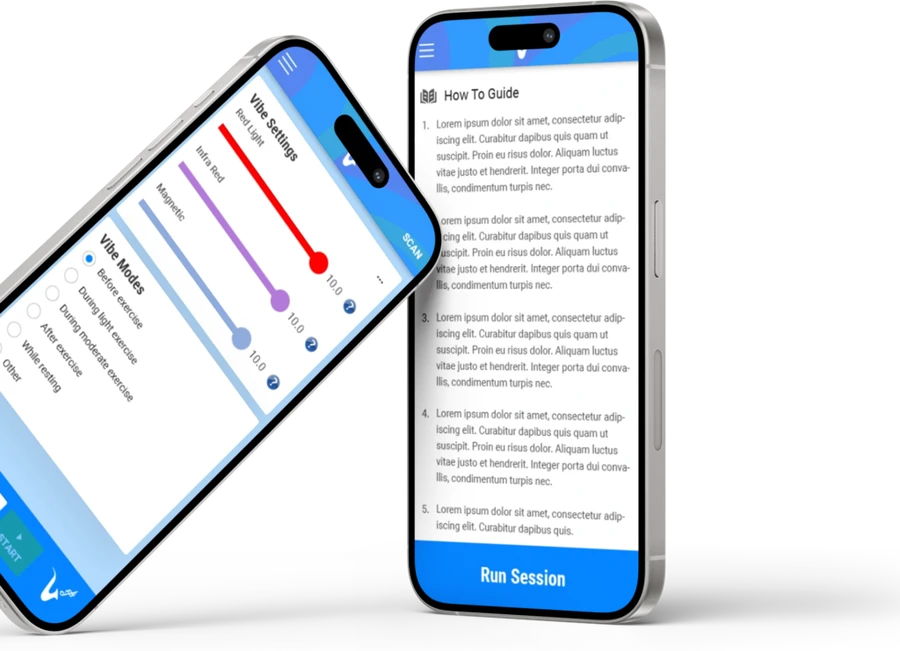
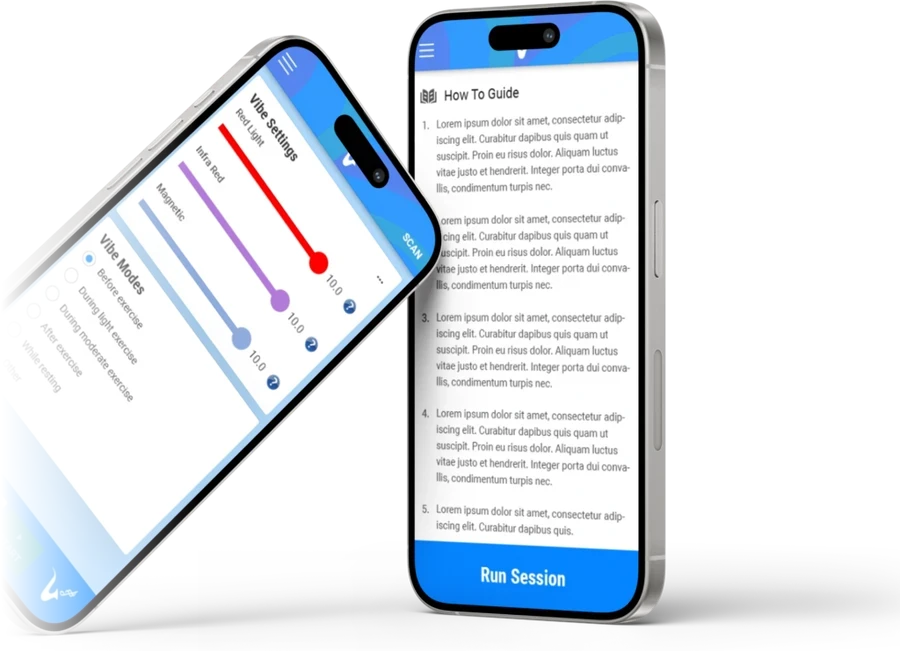
fix: no hard-cropped product renders; remove duplicate and unwanted nav links
Renders: every edge where a product render's subject ran off the image (the Ship It Pro and Fireflies hands, pedestals, screens) now fades to transparent, so nothing ends in a hard crop line on any background. Grief Unleashed, a cropped scene, is replaced by a clean visual composed from three of its own app screens.

Navbar: Case Studies only in the top bar (removed from Company > Proof and Insights > Resources); Popular Topics removed (it duplicated the blog's own topic filters and broke when used on the blog page); QA and DevOps pages listed once, under Technologies (Teams merges Production Teams into Build & extend). Labels: Blog, White Papers.

Changed region(s): [[0.0, 0.6144, 0.2178, 0.9831], [0.0, 0.2151, 0.2178, 0.5837], [0.1244, 0.5837, 0.1556, 0.6144]]

diff --git a/src/lib/projects.ts b/src/lib/projects.ts
@@ -32,6 +32,9 @@ export interface Project {
   tagline: string;
   brief: string;
   stack: string[];
+  /** A transparent device render. Any edge where the subject ran off the
+      image (a hand, a pedestal, a screen) is faded to transparent, so no
+      render ends in a hard crop line on any background. */
   mockup: ImageMetadata;
   url: string;
 }

diff --git a/THIRD_PARTY_NOTICES.md b/THIRD_PARTY_NOTICES.md
@@ -38,6 +38,10 @@ The OFL text: https://openfontlicense.org/open-font-license-official-text/
 | `src/assets/team-photo.webp`, `showcase/portrait.jpg`, `cases/*.webm`, `cases/*.jpg` | Supplied by the AgentCraft team | AgentCraft's own |
 | `src/assets/about/leader-*`, `about/loc-*`, `cases/projects/*`, `cases/portfolio-hero.jpg`, `insights/**` | Supplied by JumpGrowth, the site's owner (also published on jumpgrowth.com); see `docs/components/company-pages.md` | JumpGrowth's own |
 
+The product renders in `src/assets/cases/projects/` are JumpGrowth's own. Where a subject ran off
+an image's edge, that edge is faded to transparent so no render ends in a hard crop;
+`grief-unleashed.webp` is composed from three of the app's own screens.
+
 The brand icons and share card in `src/assets/brand/` are made from JumpGrowth's own logo
 (`icon-*.png` crop its "JU" corner), and the share card sets it over `why/people.jpg`
 (Unsplash, above).
